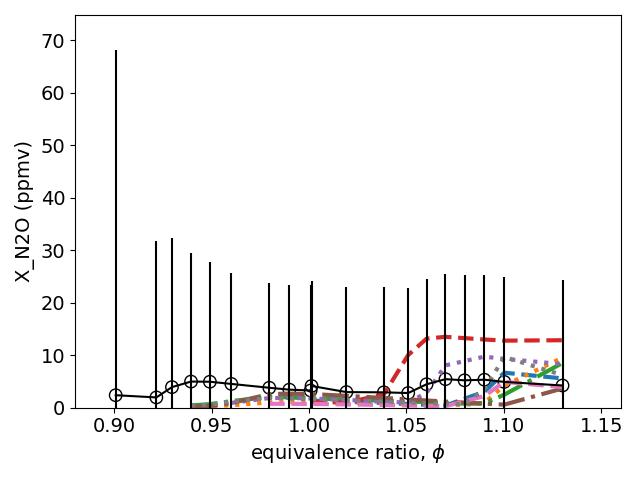
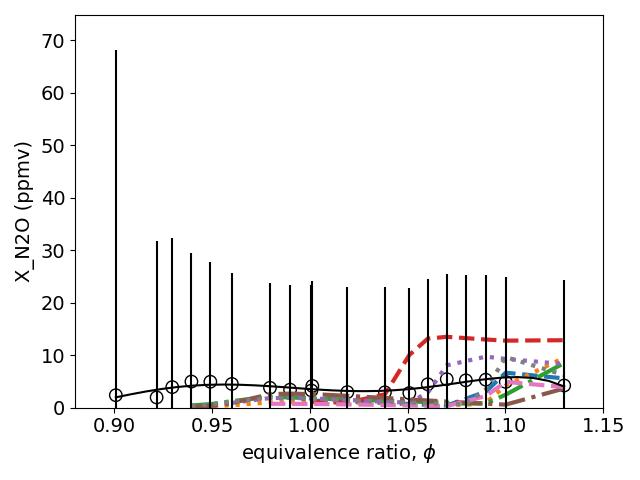
correct error calculation accounting for units

diff --git a/src/plotter/numerical_vs_exp.py b/src/plotter/numerical_vs_exp.py
@@ -1,6 +1,7 @@
 import pandas as pd
 import matplotlib.pyplot as plt
 import os
+import numpy as np
 from src.settings.filepaths import output_dir_numerical, input_dir, output_dir
 
 TEXT_SIZE = 14
@@ -33,20 +34,21 @@ def plotter(numerical_folder: str, exp_results: str, col:str, exp_multiplier:flo
         plt.plot(df["phi"], df[col] * num_mulitplier, linestyle=l, linewidth=3, label=legend)
         plt.xlabel(r"equivalence ratio, $\phi$", fontsize=TEXT_SIZE)
         plt.ylabel(f"{y_label}", fontsize=TEXT_SIZE)
-    plt.scatter(
-        exp_df["phi"],
-        exp_df[col] * exp_multiplier,
-        marker="o",
-        color="black",
-        s=80,
-        facecolors="none",
-        label="Experiment",
+    coefficients_y = np.polyfit(exp_df["phi"], exp_df[col], 5)
+    trend_y = np.polyval(coefficients_y, (np.linspace(exp_df['phi'].min(), exp_df['phi'].max(), 30, endpoint=True))
+)
+    plt.plot(
+        np.linspace(exp_df['phi'].min(), exp_df['phi'].max(), 30, endpoint=True),
+        trend_y * exp_multiplier,
+        color="black", linestyle = '-', marker = None,
     )
-    plt.errorbar(exp_df["phi"], exp_df[col]*exp_multiplier, yerr=exp_df[f"{col} Er"]*exp_multiplier, color="black", fmt="")
+    plt.scatter(exp_df["phi"], exp_df[col] * exp_multiplier, s = 80, marker="o",facecolor='none', linestyle = '', color="black",
+        label="Experiment")
+    plt.errorbar(exp_df["phi"], exp_df[col]*exp_multiplier, yerr=exp_df[f"{col} Er"]*exp_multiplier, linestyle = '', color="black", fmt="")
     plt.tick_params(axis="both", which="major", labelsize=TEXT_SIZE)
-    # plt.legend(fontsize=TEXT_SIZE)
+    plt.legend(fontsize=TEXT_SIZE)
     plt.ylim(0)
-    plt.xlim(0.88, 1.16)
+    plt.xlim(0.88, 1.15)
     plt.tight_layout()
     plt.savefig(f"{output_dir}/graphs/0%/{col}.jpg")
     plt.show()

diff --git a/src/calculations/error_calculate.py b/src/calculations/error_calculate.py
@@ -1,5 +1,5 @@
 from src.calculations.basics import find_y, x_err_to_y_err
-from src.settings.filepaths import output_dir_numerical, input_dir
+from src.settings.filepaths import output_dir_numerical, input_dir, output_dir
 import os
 from src.settings.logger import LogConfig
 import pandas as pd
@@ -39,8 +39,8 @@ class ErrorCalculator:
 
         # Save sum error dataframe to a CSV file
         df_error = pd.DataFrame(list(self.error.items()), columns=['Mech', 'Error'])
-        df_error.to_csv(f"error_{os.path.splitext(self.exp_results_file.split('/')[-1])[0]}.csv", index=False)
-        self.df_error_sp.to_csv(f"sp_error_{os.path.splitext(self.exp_results_file.split('/')[-1])[0]}.csv")
+        df_error.to_csv(f"{output_dir}/error/error_{os.path.splitext(self.exp_results_file.split('/')[-1])[0]}.csv", index=False)
+        self.df_error_sp.to_csv(f"{output_dir}/error/sp_error_{os.path.splitext(self.exp_results_file.split('/')[-1])[0]}.csv")
 
 
     def calculate_error_main(self):

diff --git a/src/main.py b/src/main.py
@@ -17,9 +17,9 @@ def main():
     # run_flame(f"{mech_path}/mei.cti", f"{input_dir}/CH4_NH3/20%_data.csv", flame_type = "stagnation")
 
     # plotting example:
-    plotter("1000grid/stagnation_H2_NH3/0%", 'stagnation/NH3_H2/0%_data_full.csv', 'H2O', 1, "X_H2O (ppmv)", 1000000)
+    plotter("1000grid/stagnation_H2_NH3/0%", 'stagnation/NH3_H2/0%_data_full.csv', 'NO2', 1, "X_NO (ppmv)", 1000000)
 
     # error calculation:
-    error_object = ErrorCalculator("1000grid/stagnation_H2_NH3/0%", 'stagnation/NH3_H2/0%_data_full.csv', "stagnation")
+    # error_object = ErrorCalculator("1000grid/stagnation_H2_NH3/30%", 'stagnation/NH3_H2/30%_data_full.csv', "stagnation")
 if __name__ == "__main__":
     main()

diff --git a/src/calculations/basics.py b/src/calculations/basics.py
@@ -47,7 +47,6 @@ def x_err_to_y_err(experimental_data, y_vals:list):
     for y in y_vals:
         # Use polyfit from NumPy to calculate the trend for exp_df[y] and exp_df["phi"]
         coefficients_y = np.polyfit(exp_df["phi"], exp_df[y], 6)
-        trend_y = np.polyval(coefficients_y, exp_df["phi"])
 
         # Calculate the new Er vals:
         exp_df[f"{y}_x_er_Er"] = abs(np.polyval(coefficients_y, exp_df["min_phi"]) - np.polyval(coefficients_y, exp_df["max_phi"]))/2
